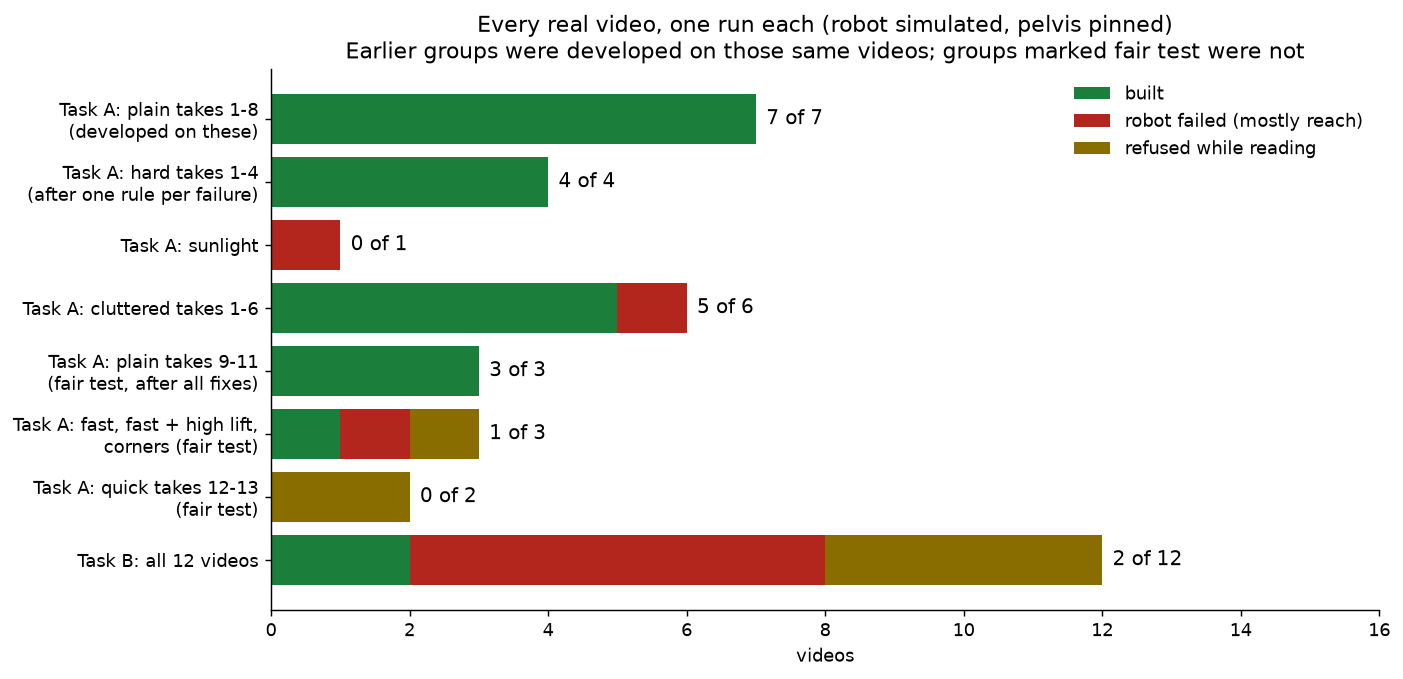
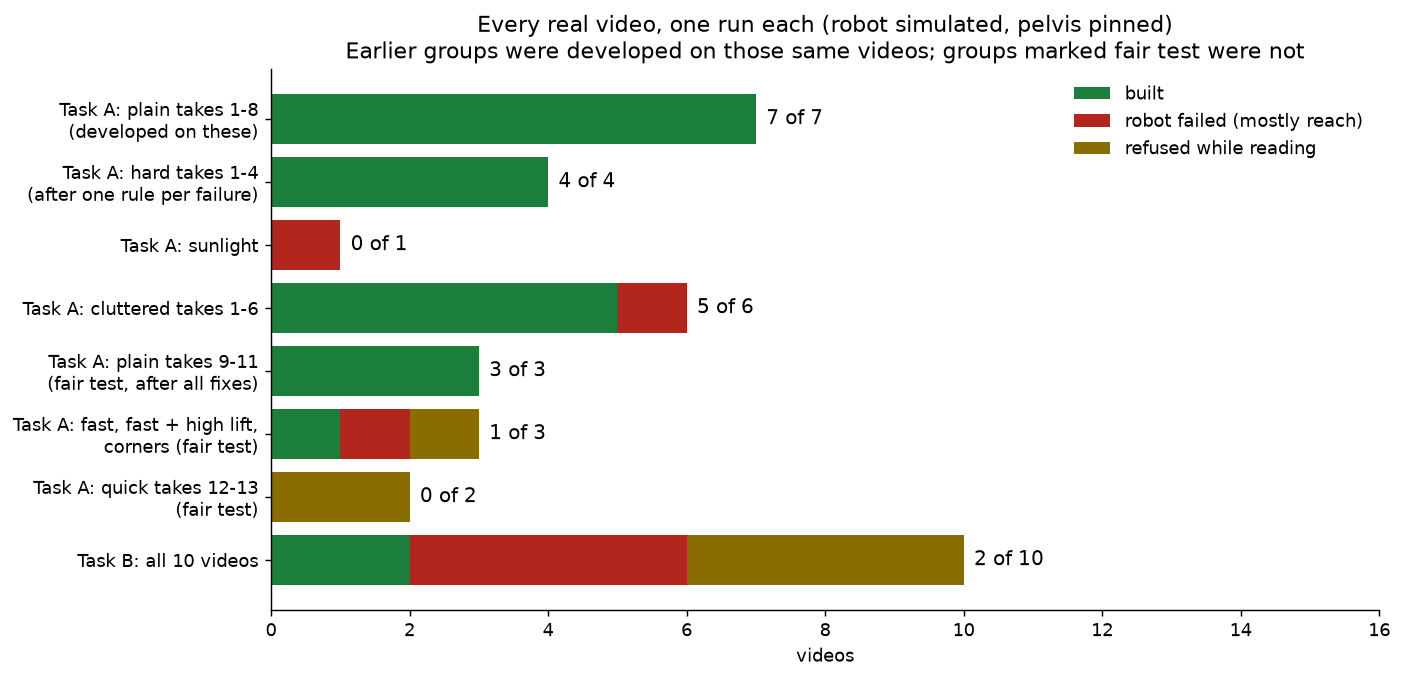
chore: remove two cluttered Task B videos; Task B 2 of 10

Changed region(s): [[0.6743, 0.7732, 0.8582, 0.866], [0.4904, 0.7732, 0.613, 0.866]]

diff --git a/scripts/make_analysis_charts.py b/scripts/make_analysis_charts.py
@@ -31,7 +31,7 @@ REAL_GROUPS = [
     ("Task A: plain takes 9-11\n(fair test, after all fixes)", 3, 0, 0),
     ("Task A: fast, fast + high lift,\ncorners (fair test)", 1, 1, 1),
     ("Task A: quick takes 12-13\n(fair test)", 0, 0, 2),
-    ("Task B: all 12 videos", 2, 6, 4),
+    ("Task B: all 10 videos", 2, 4, 4),
 ]
 
 

diff --git a/notes.md b/notes.md
@@ -51,7 +51,7 @@ Imagine you sit at a table and film yourself putting an apple in a box. You hand
 
 Doing this on a real humanoid would be expensive and risky, so we use a **simulator**: a program that acts like a video game with accurate physics. If the robot's fingers don't squeeze hard enough in the simulator, the object really does slip.
 
-**Where we are (5 Nov):** the robot now learns from **your real webcam videos** of steel glasses. For Task A, the triangle, it builds 20 of the 26 videos kept (20 of 30 counting 4 deleted as out of reach). For Task B, the flip, it builds 2 of 12; most failures are glasses too far for a robot that can't walk. The challenge's hard rule is met: the plan and every glass position come from your video.
+**Where we are (5 Nov):** the robot now learns from **your real webcam videos** of steel glasses. For Task A, the triangle, it builds 20 of the 26 videos kept (20 of 30 counting 4 deleted as out of reach). For Task B, the flip, it builds 2 of 10; most failures are glasses too far for a robot that can't walk. The challenge's hard rule is met: the plan and every glass position come from your video.
 
 **To read the project as a story of ideas, from the first failure to today, start with chapter 21.** Chapters 1 to 13 explain the ideas using the first version, which sorted coloured blocks. **Part Two (chapters 14 to 22) covers your real videos**, and chapter 20 has the numbers to quote.
 
@@ -1379,8 +1379,8 @@ These are the numbers to quote. "Real video" means the robot's plan and glass po
 ### Task A: every video I kept (17), final system
 **20 of 26 build.** Two failures are triangles built too close to the robot's chest (the sunlight video and clutter take 4). One started the glasses at the table's far corners, out of the robot's reach. Three moved the glasses very quickly (4× fast with a high lift, and quick takes 12 and 13): the reader couldn't time the moves, so it refused them. Four more videos were deleted as beyond the robot's reach, and all four had failed. Counting them, it's **20 of 30**. Always quote both numbers.
 
-### Task B: the 3 new cluttered videos
-Takes 1 and 2 are now **read correctly**, but the robot fails both, because the glasses sit up to 41 cm in, where the flip was only tested to 19 cm. Take 3 is refused (one resting spot missing). So Task B stands at **2 of 12** videos.
+### Task B: the new cluttered video
+It was refused (one resting spot missing). So Task B stands at **2 of 10** videos.
 
 ### Task B: the flip (9 real videos)
 | | Result |

diff --git a/docs/ANALYSIS.md b/docs/ANALYSIS.md
@@ -25,7 +25,7 @@ Every chart here comes from saved runs in [`results/`](results/). The robot is a
 | Task A, plain takes 9–11 | **3 of 3** | **Fair test:** recorded after every fix, camera moved, nothing changed |
 | Task A, fast / fast + high lift / corners | **1 of 3** | **Fair test.** Fast with a low lift built; a high lift at 4× speed was refused (two rests too short to see); corners were out of reach |
 | Task A, quick takes 12–13 | **0 of 2** | **Fair test.** Quick moves confused the timing: both refused |
-| Task B, all 12 videos | 2 of 12 | Most glasses are beyond a robot that can't walk; the 3 cluttered takes were read correctly |
+| Task B, all 10 videos | 2 of 10 | Most glasses are beyond a robot that can't walk |
 
 **Task A in total: 20 of 26 videos kept** (20 of 30 counting 4 deleted as out of the robot's reach). **On fair tests only** (cluttered takes 4–6 and everything recorded after the last fix): **6 of 11**. Both numbers matter: the system works on videos like the ones it was built on, and new kinds of video (very fast moves, glasses at the corners, triangles near the robot's chest) still find its limits.
 
@@ -84,7 +84,7 @@ Simulator layouts drawn on my camera's view, where one choice built the triangle
 |---|---|---|
 | Triangle built against the robot's chest | Sunlight, clutter take 4 (and take 14, later deleted) | Let the robot step back, or test and tune that strip of the table |
 | A glass carried from one far side to the other, close to the robot's body | Takes 14 and 15 (later deleted as out of reach): a glass starting at one far side is carried across to the triangle near the robot's chest, so the arm crosses the body at close range | Two arms helped (tower 30 → 2 cm off) but not enough; build the triangle further in |
-| Glasses beyond reach | Task B takes 2, 3, 7, clutter 1, 2; Task A corners | Let the robot walk or step to the side |
+| Glasses beyond reach | Task B takes 2, 3, 7; Task A corners | Let the robot walk or step to the side |
 | Moves too quick to time | Fast + high lift, takes 12, 13 | Accept short pauses, or use Claude's start and end positions when the timing is impossible |
 | A starting glass missed | Task B takes 4, 5, 8, clutter 3 | Better reading for the flip |
 

diff --git a/README.md b/README.md
@@ -269,7 +269,7 @@ sam_reader:
 | **Task A**, my first 9 videos | 3 of 9 (4 with two arms) | **8 of 9** | Claude rescued 4 videos where the reader missed a glass. |
 | **Task A**, 7 fresh hard videos (clutter, an unused glass, glints, a moving plug, sunlight) | not run | **0 of 7** on their fair first run → **6 of 7** after one rule per failure | Not a fair test after the fixes. Sunlight still fails: the tower was too close to the robot's chest |
 | **Task A**, 26 videos within the robot's reach, final system | not run | **20 of 26** | Developed on many of them. **On fair tests only, 6 of 11.** Failures: triangles built too close to the robot's chest (2), glasses at the far corners, and very quick moves (3, all refused) |
-| **Task B**, all 12 of my videos | 2 of 9 (first 9) | **2 of 12** | Most failures are glasses beyond a robot that can't walk. The 3 newest, on cluttered tables, are read correctly by Claude's rules, but the glasses are out of reach |
+| **Task B**, all 10 of my videos | 2 of 9 (first 9) | **2 of 10** | Most failures are glasses beyond a robot that can't walk |
 
 **What the robot can do, with exact simulator positions:**
 
@@ -317,7 +317,7 @@ Each idea came from counting the failures of the one before. The full record, ab
 ## ⚠ Limitations
 
 - **Simulation only, with a pinned pelvis:** no balance, no walking, and limited reach. Most failures are reach: glasses too far away, or a triangle built too close to the robot's chest.
-- **Task B works in a narrow area:** 2 of 12 real videos, because the flip needs every glass close to the robot.
+- **Task B works in a narrow area:** 2 of 10 real videos, because the flip needs every glass close to the robot.
 - **Programmed motion:** no learned policy. The only model trained here picks one arm or two.
 - **Not all fair tests:** many Task A successes come from rules built on the same videos. On fair tests (videos recorded after the fixes, nothing changed), Task A built 6 of 11.
 - **One run per video:** each real video was run once.
